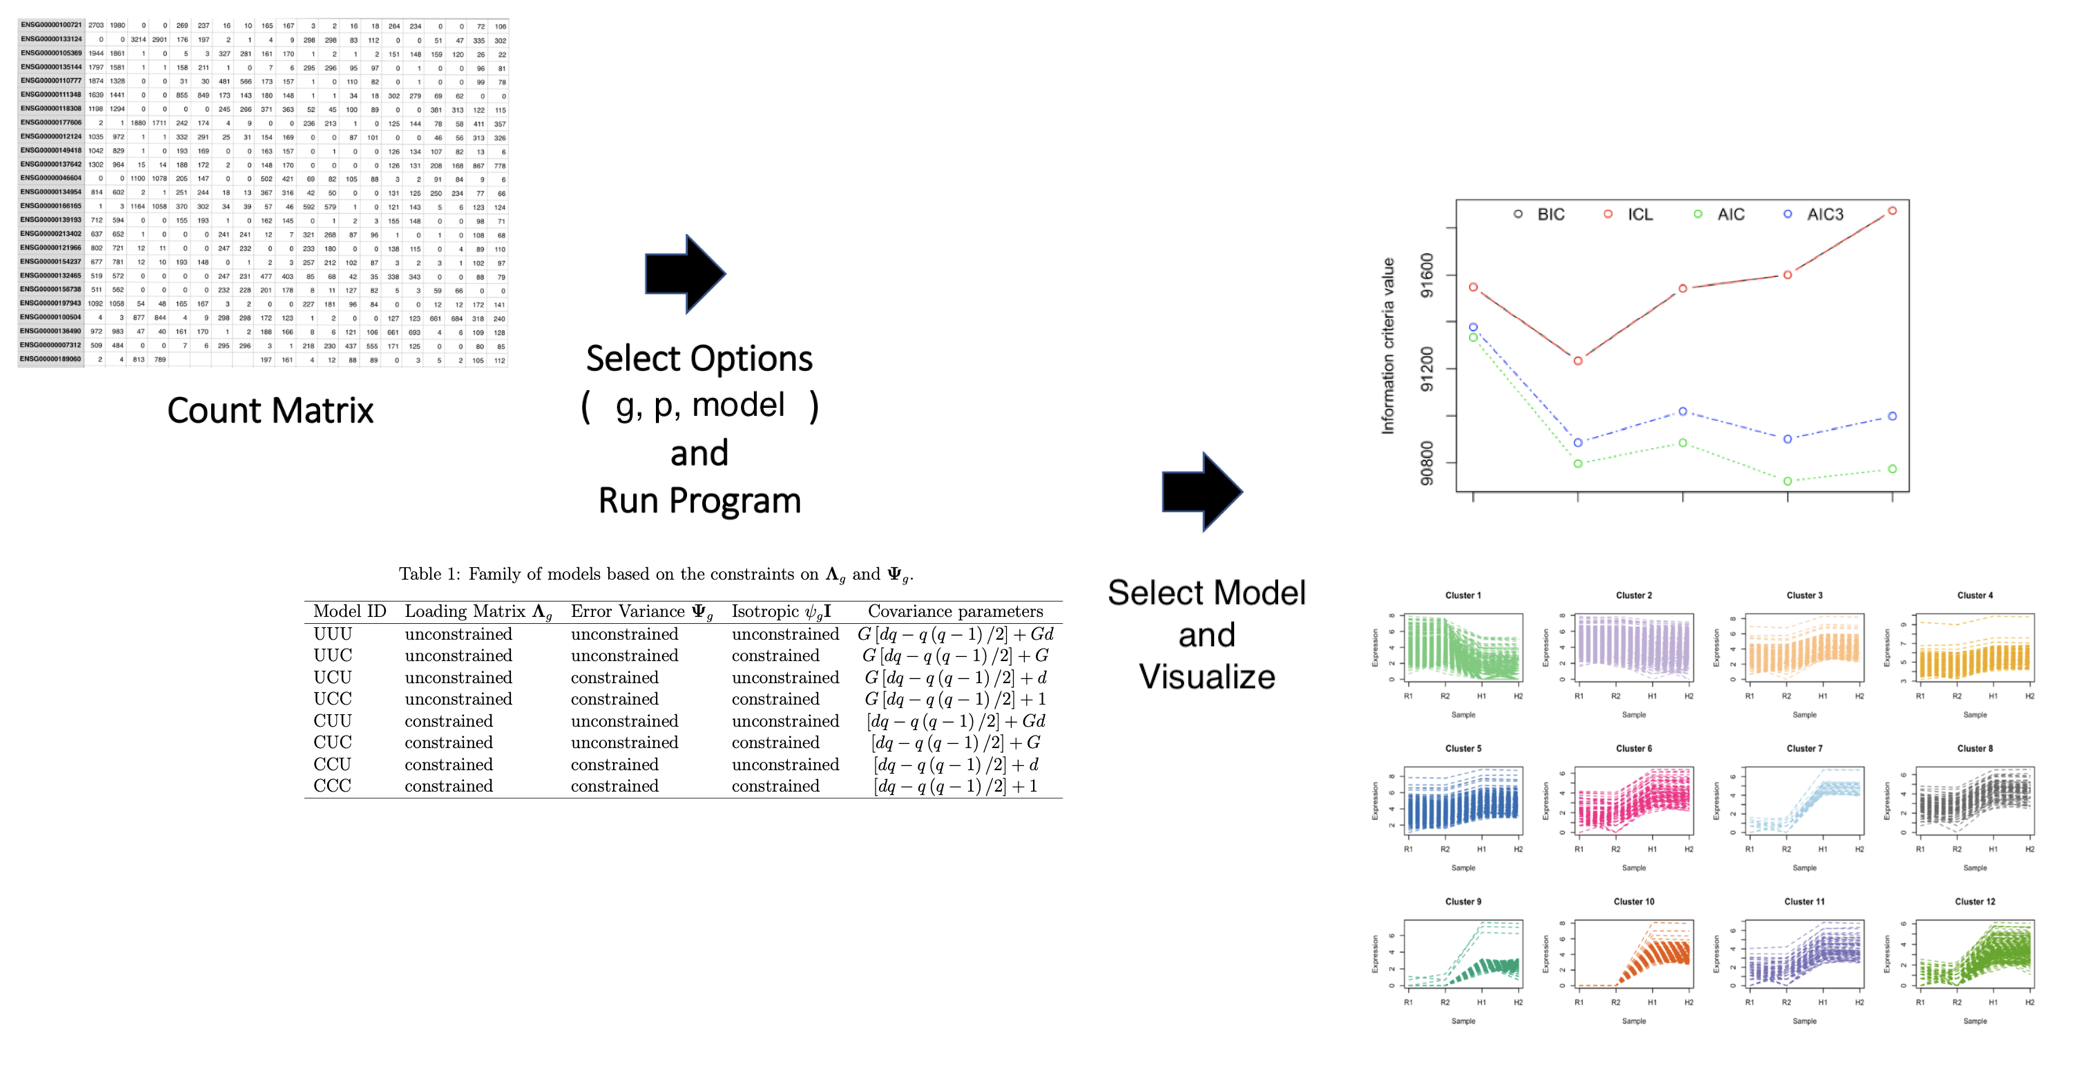
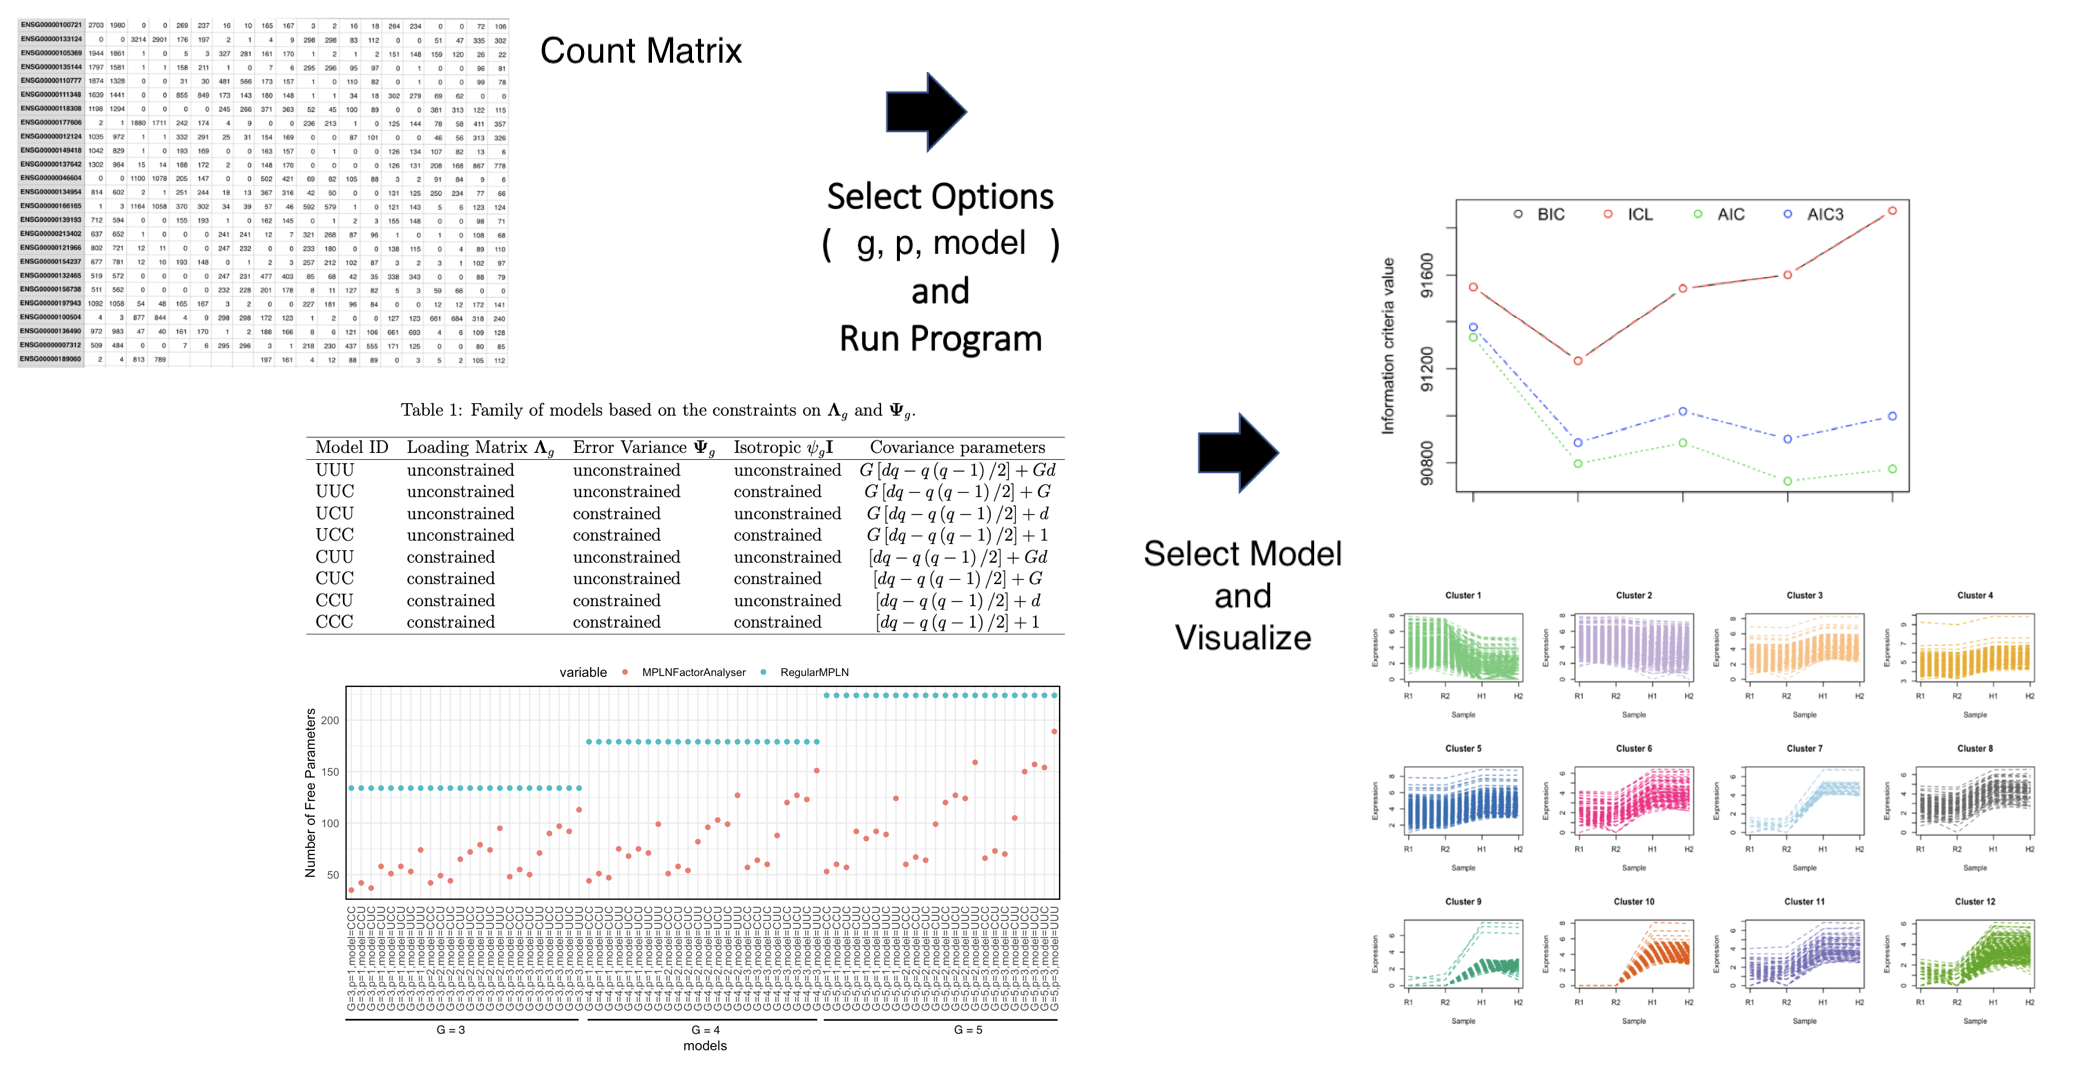
Update overview image

diff --git a/README.md b/README.md
@@ -27,10 +27,13 @@ count data, with clustering of RNA sequencing data as a motivation.
 However, the clustering method may be applied to other types of count
 data. This model considers a factor analyzer structure and this reduces
 the number of free covariance structure parameters to be calculated.
-This package provides functions for data simulation and clustering with
-parameter estimation via a variational Gaussian approximation with
-Expectation-Maximization (EM) algorithm. Information criteria (AIC, BIC,
-AIC3 and ICL) are offered for model selection.
+With the introduction of the factor analysis structure, the number of
+covariance parameters to be calculated is linear in data dimensionality,
+thus making this family well suited for analysis of high-dimensional
+discrete data. This package provides functions for data simulation and
+clustering with parameter estimation via a variational Gaussian
+approximation with Expectation-Maximization (EM) algorithm. Information
+criteria (AIC, BIC, AIC3 and ICL) are offered for model selection.
 
 ## Installation
 
